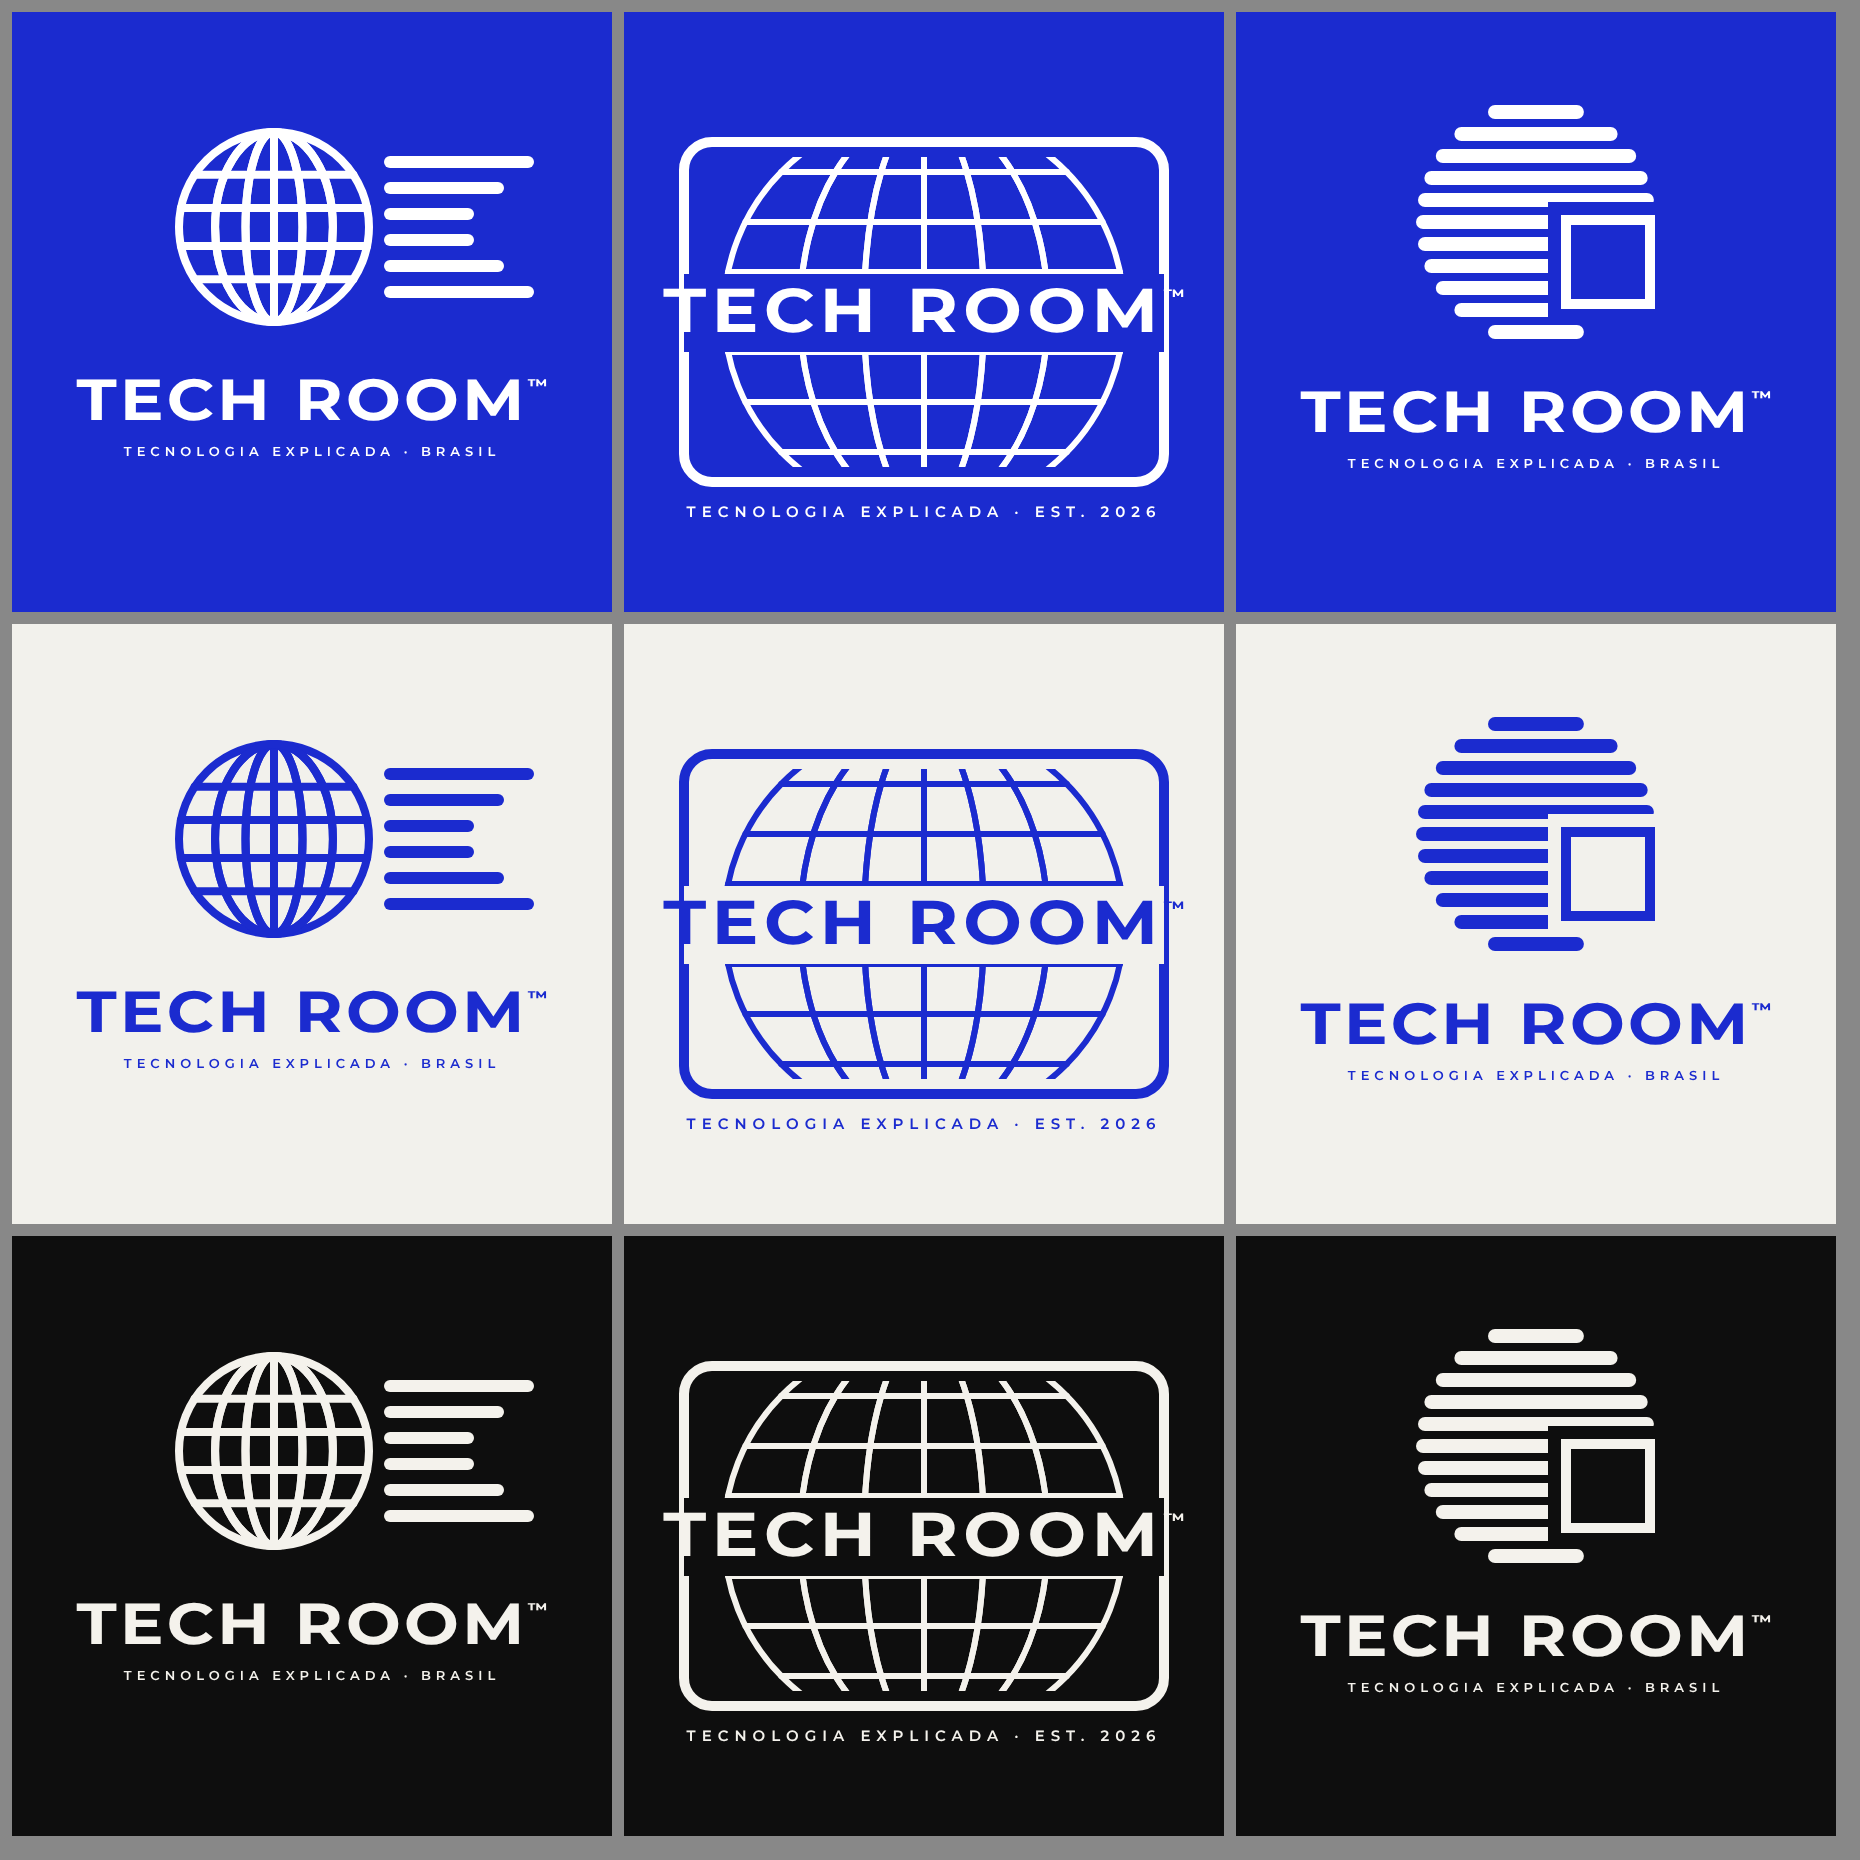
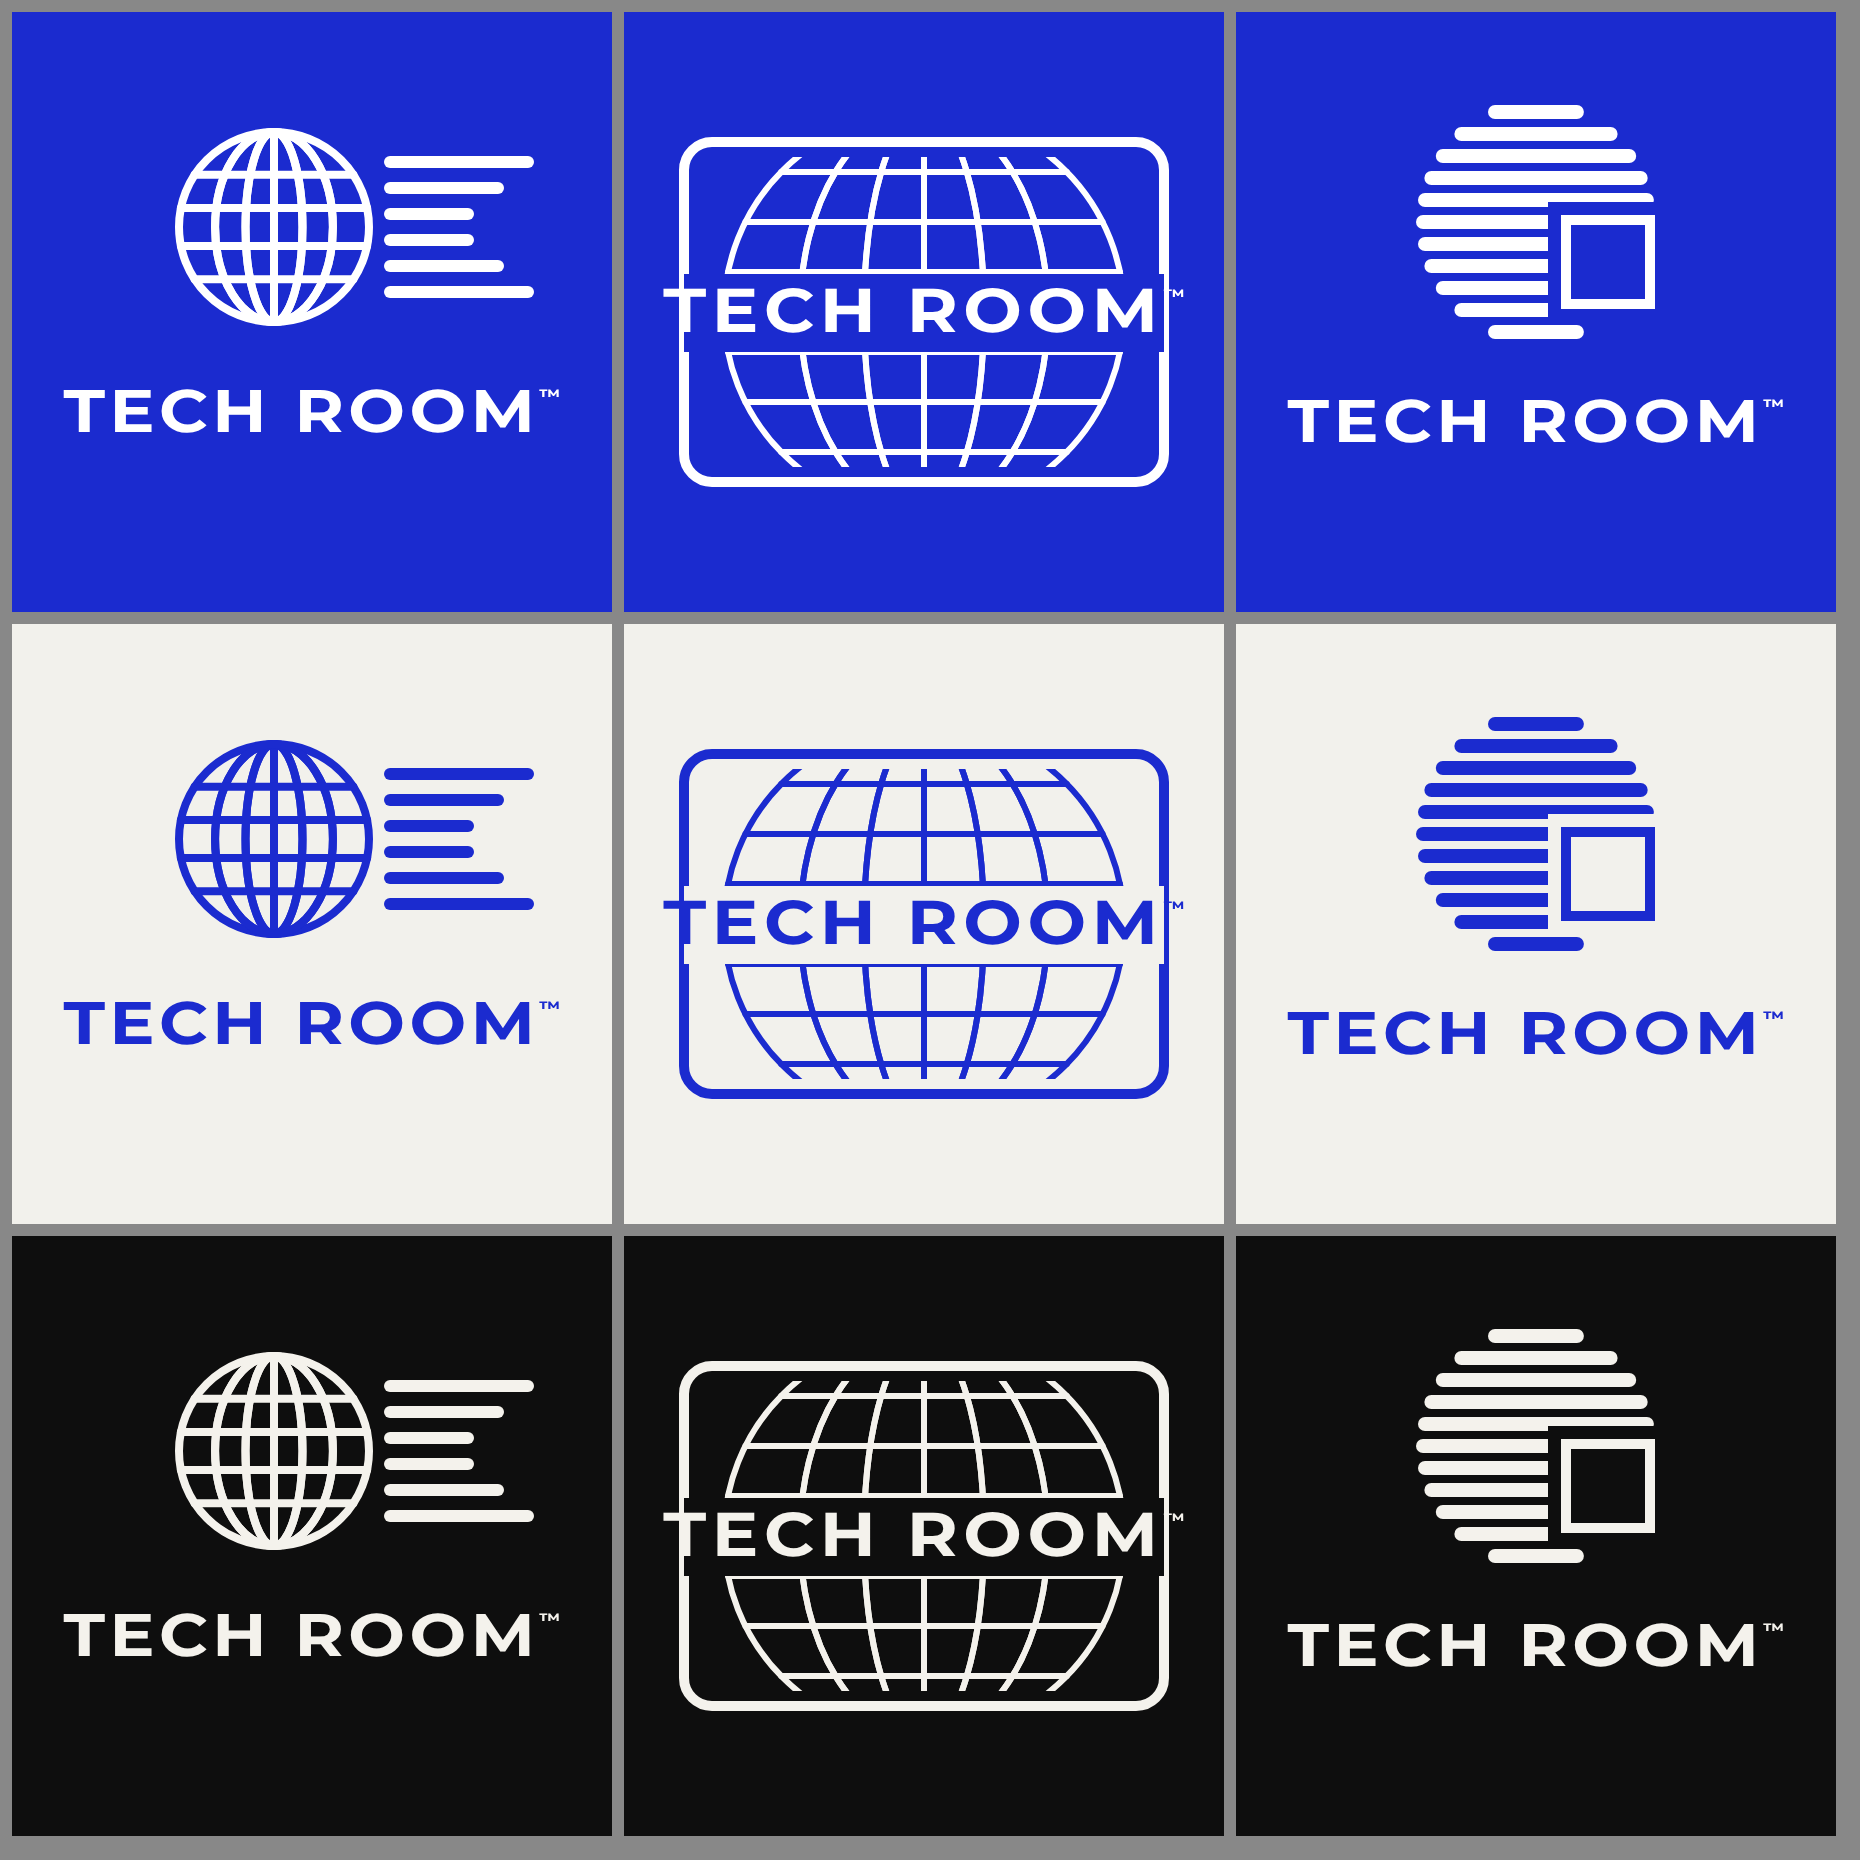
marca: variantes sem tagline

diff --git a/marca/gerar_retro.py b/marca/gerar_retro.py
@@ -22,7 +22,7 @@ def globe(cx, cy, r, ink, sw=7, meridians=(-0.62, -0.3, 0, 0.3, 0.62), parallels
         s += f'<line x1="{cx-half:.1f}" y1="{y:.1f}" x2="{cx+half:.1f}" y2="{y:.1f}"/>'
     return s + "</g>"
 
-def wordmark(x, y, ink, size=74, sub="TECNOLOGIA EXPLICADA · BRASIL", anchor="middle", tm=True):
+def wordmark(x, y, ink, size=74, sub=None, anchor="middle", tm=True):
     s = (f'<text x="{x}" y="{y}" text-anchor="{anchor}" font-family="Montserrat" font-weight="800" font-size="{size}" '
          f'letter-spacing="{size*0.06:.0f}" fill="{ink}" transform="translate({x},0) scale(1.12,1) translate({-x},0)">TECH ROOM'
          + (f'<tspan font-size="{size*0.3:.0f}" dy="{-size*0.5:.0f}" font-weight="700" letter-spacing="0">™</tspan>' if tm else "") + "</text>")
@@ -37,7 +37,7 @@ def tile(bg, ink, v, W=600):
         # listras saindo para a direita (velocidade), encurtando
         for i, (y, w) in enumerate(((150, 150), (176, 120), (202, 90), (228, 90), (254, 120), (280, 150))):
             s += f'<rect x="{372}" y="{y-6}" width="{w}" height="12" rx="6" fill="{ink}"/>'
-        s += wordmark(300, 408, ink, 58)
+        s += wordmark(300, 420, ink, 60)
     elif v == "B":  # emblema: sala (retângulo arredondado) com globo recortado atrás do nome
         s += f'<rect x="60" y="130" width="480" height="340" rx="28" fill="none" stroke="{ink}" stroke-width="10"/>'
         s += f'<clipPath id="c"><rect x="75" y="145" width="450" height="310" rx="18"/></clipPath>'
@@ -45,7 +45,6 @@ def tile(bg, ink, v, W=600):
         # faixa do nome
         s += f'<rect x="60" y="262" width="480" height="78" fill="{bg}"/>'
         s += f'<text x="300" y="320" text-anchor="middle" font-family="Montserrat" font-weight="800" font-size="62" letter-spacing="5" fill="{ink}" transform="translate(300,0) scale(1.12,1) translate(-300,0)">TECH ROOM<tspan font-size="18" dy="-30" letter-spacing="0">™</tspan></text>'
-        s += f'<text x="300" y="505" text-anchor="middle" font-family="Montserrat" font-weight="600" font-size="15" letter-spacing="6" fill="{ink}">TECNOLOGIA EXPLICADA · EST. 2026</text>'
     else:  # sol de listras com uma janela quadrada (a sala) no canto
         cx, cy, r = 300, 210, 120
         for i in range(-5, 6):
@@ -53,7 +52,7 @@ def tile(bg, ink, v, W=600):
             s += f'<rect x="{cx-half:.1f}" y="{y-h/2}" width="{2*half:.1f}" height="{h}" rx="{h/2}" fill="{ink}"/>'
         # janela: quadrado "vazado" sobre o sol, com um ponto
         s += f'<rect x="312" y="190" width="120" height="120" fill="{bg}"/><rect x="330" y="208" width="84" height="84" fill="none" stroke="{ink}" stroke-width="10"/>'
-        s += wordmark(300, 420, ink, 58)
+        s += wordmark(300, 430, ink, 60)
     return s + "</svg>"
 
 def render(html, path, w, h):
